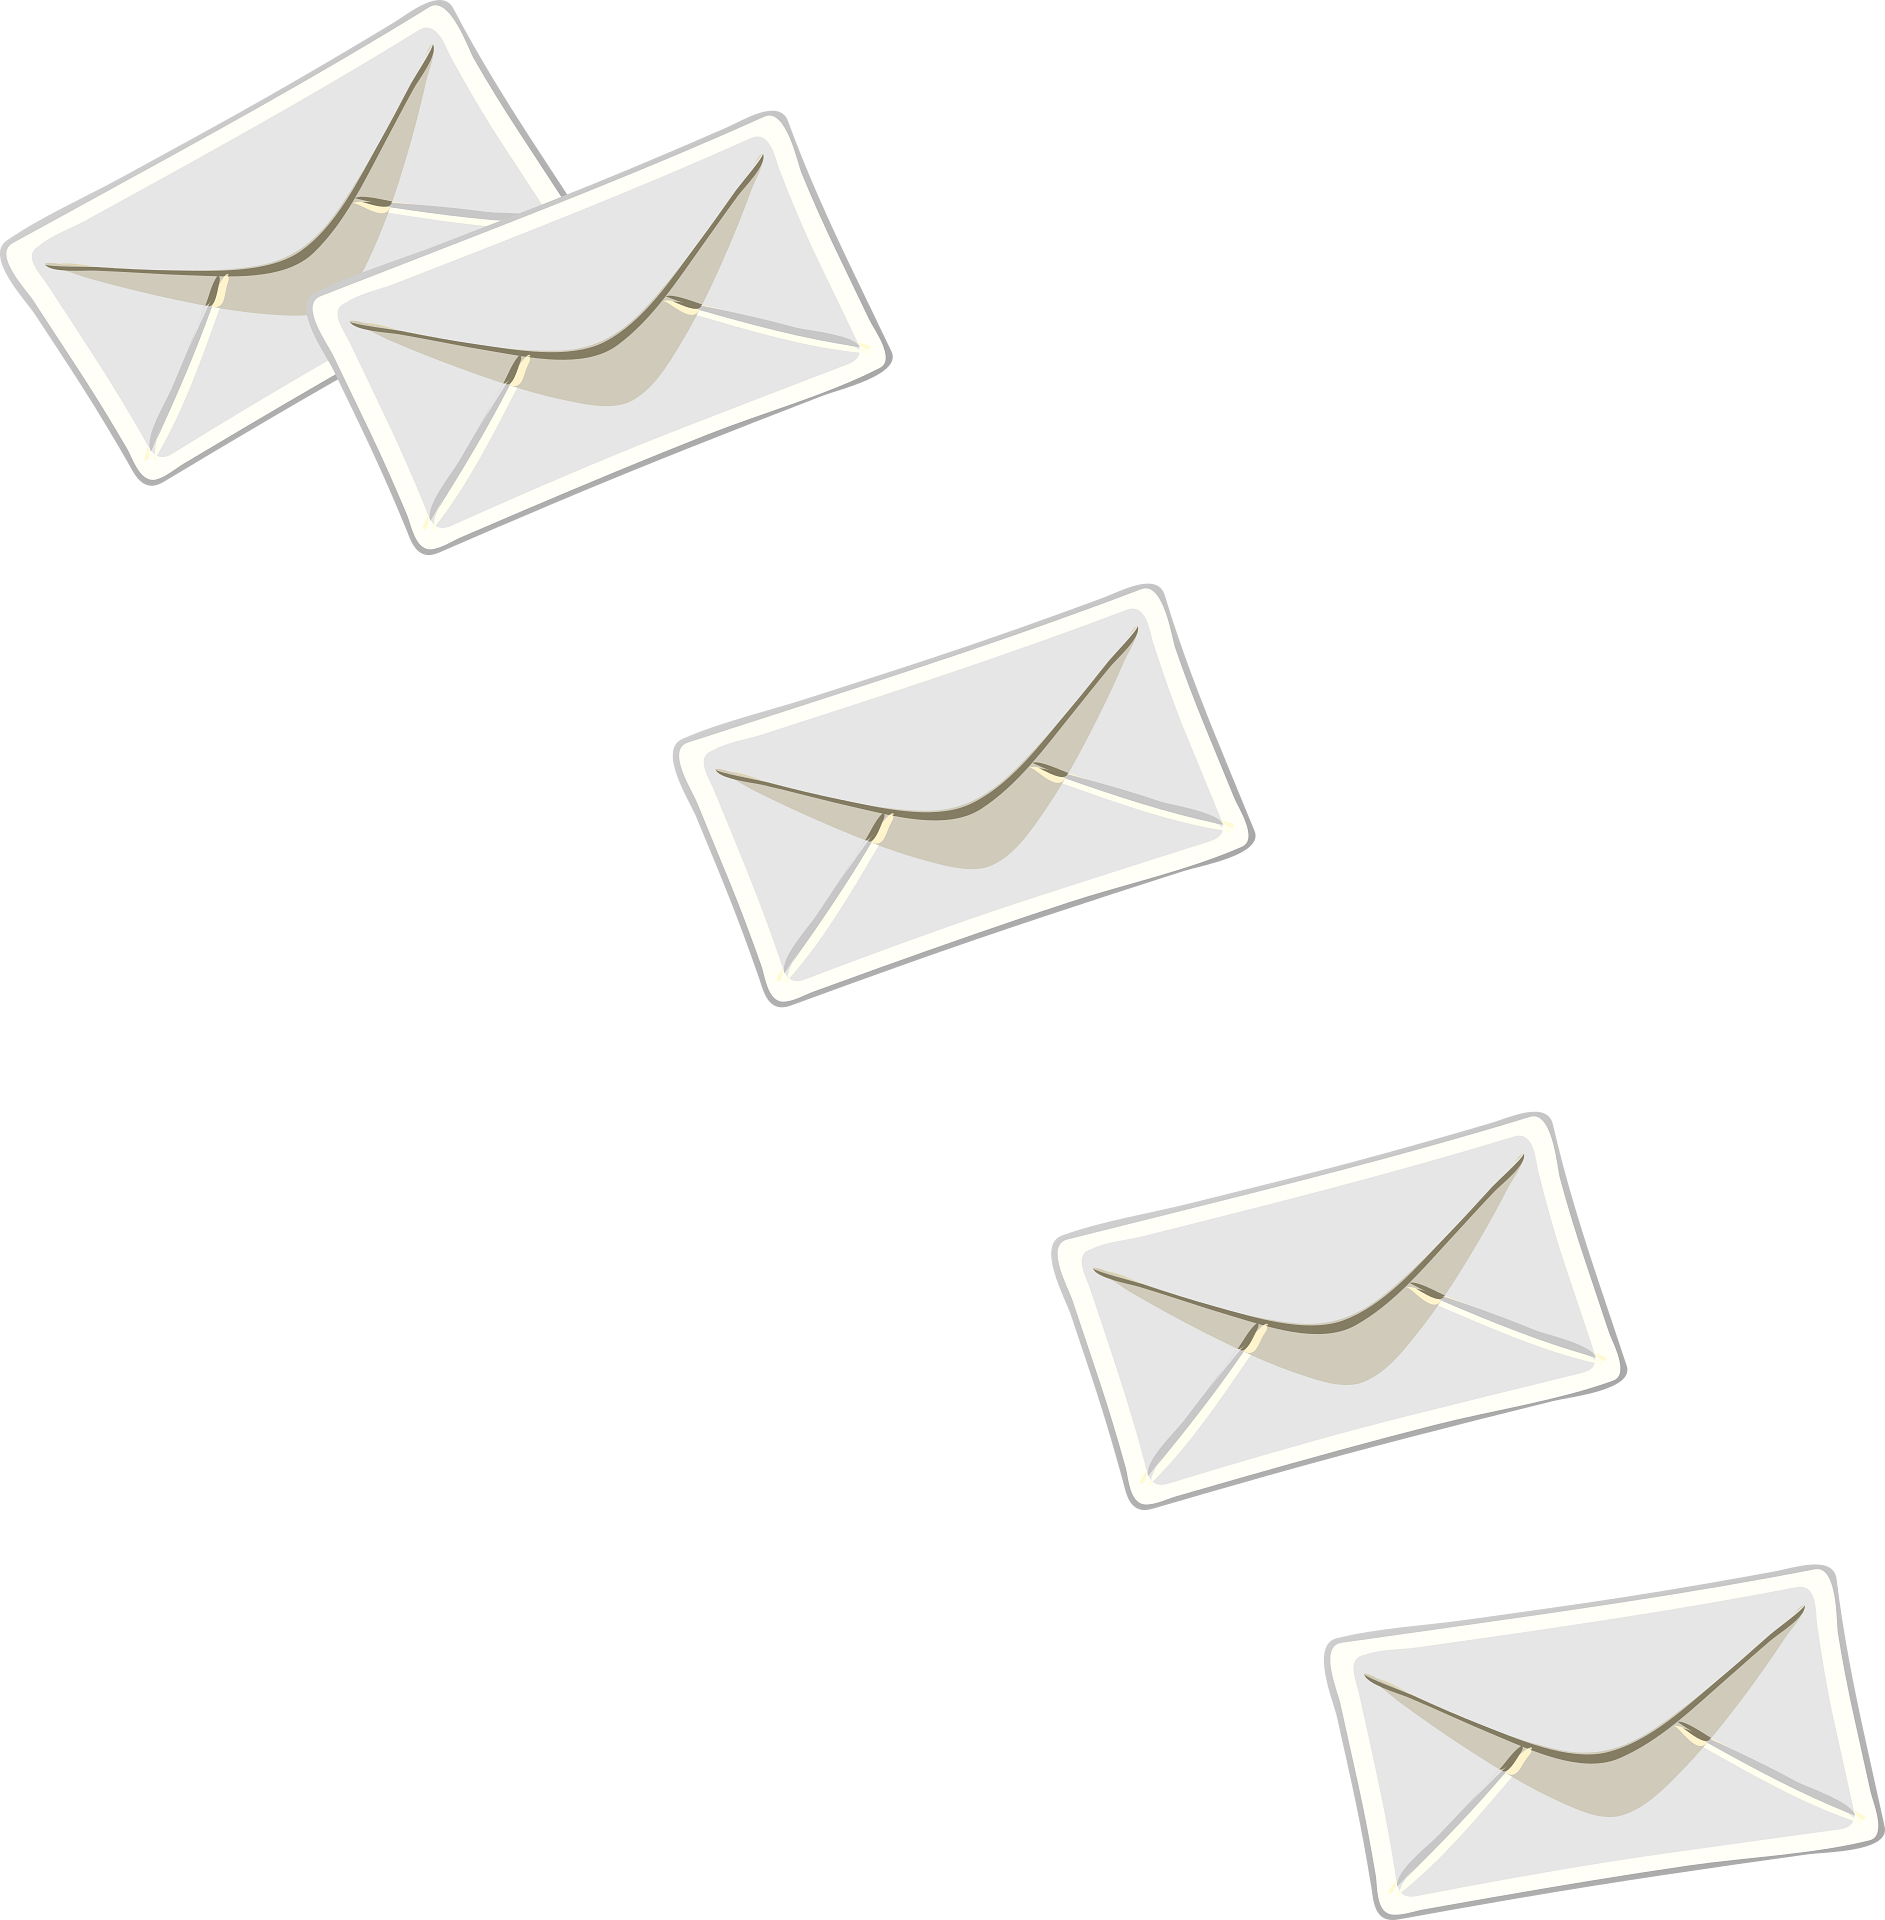
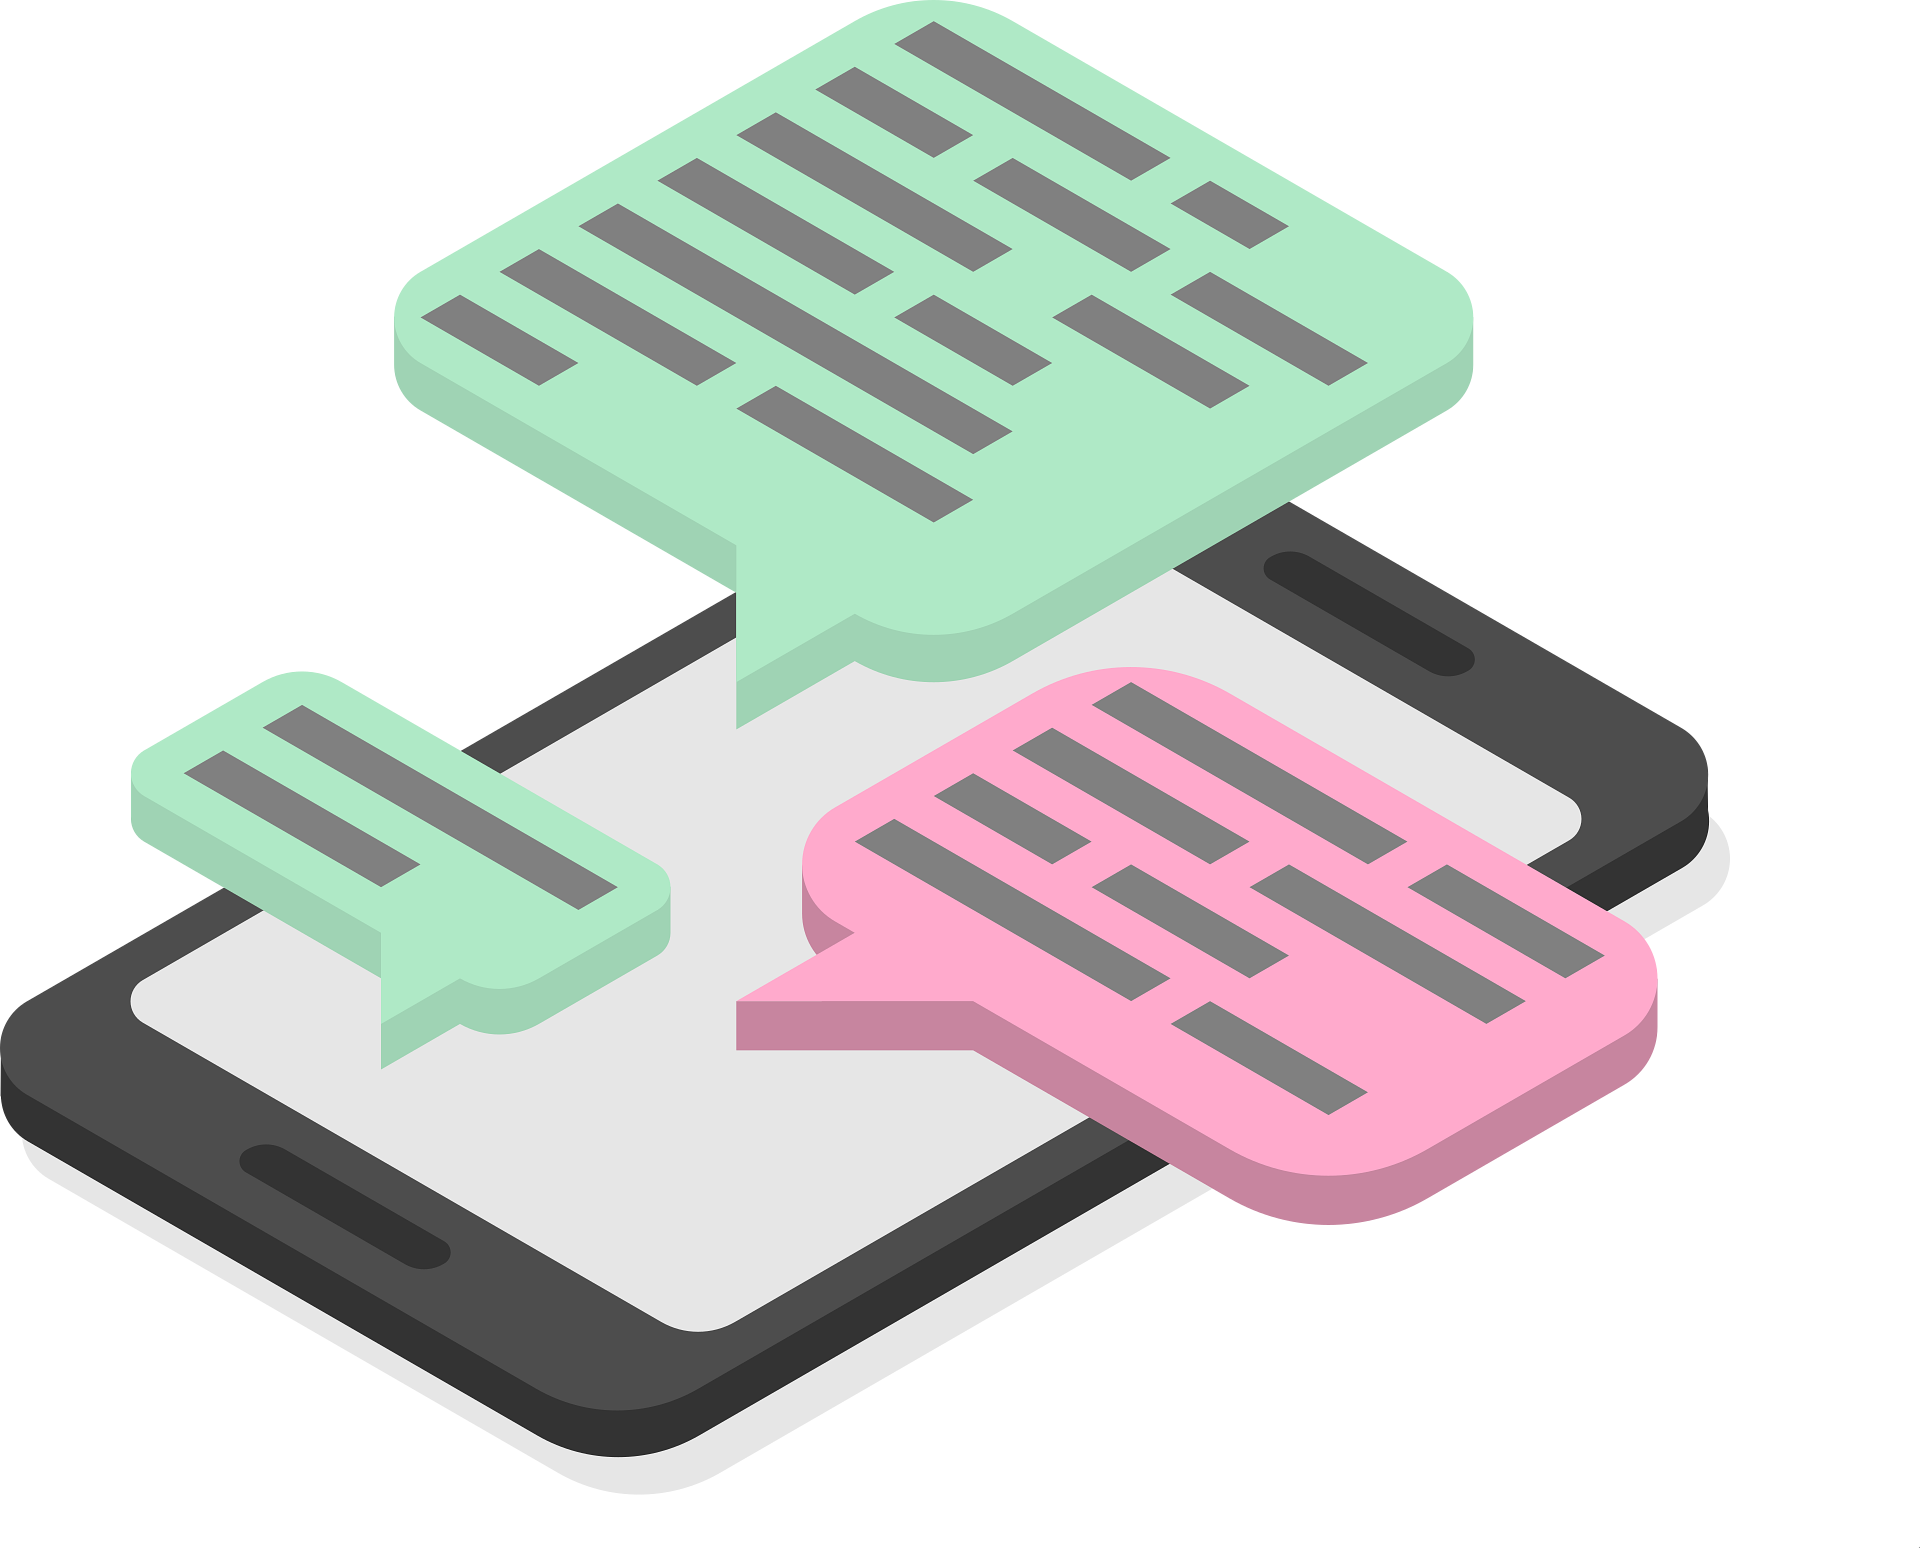
Fixed varying photo heights

diff --git a/rules.html b/rules.html
@@ -52,7 +52,6 @@
                             in play. Doing so immediately forfeits the point.</li>
                     </ul>
                 </div>
-                <img class="basic-img" src="images/rules-images/umpire.png" alt="image of a tennis umpire">
             </section>
 
             <!-- SCORING SYSTEM -->
@@ -74,6 +73,7 @@
                         they win the game; if they lose it, the score returns to deuce.
                     </p>
                 </div>
+                <img class="basic-img" src="images/rules-images/points.png" alt="image of tennis scoreboard">
             </section>
 
             <!-- SERVING -->
@@ -130,6 +130,7 @@
                             href="https://www.beaumontetiquette.com/post/tennis-etiquette-the-unwritten-rules-of-the-court"
                             target="_blank">Gentlemanly conduct in tennis</a></button>
                 </div>
+                <img class="basic-img" src="images/rules-images/gentlemans.png" alt="image of player shaking hands">
             </section>
 
             <!-- DETAILED RULES -->

diff --git a/css/styles.css b/css/styles.css
@@ -110,11 +110,10 @@ nav a {
 
 /* INTRO */
 .intro {
-    margin-top: 20px;
+    margin-top: 50px;
     display: flex;
-    align-items: flex-start;
+    align-items: stretch;
     gap: 60px;
-    align-items: center;
 }
 
 .intro-text {
@@ -217,9 +216,8 @@ nav a {
 /* BASIC SECTION */
 .basic {
     display: flex;
-    align-items: flex-start;
+    align-items: stretch;
     gap: 60px;
-    align-items: center;
     margin-top: 50px;
 }
 
@@ -302,14 +300,18 @@ nav a {
     display: block;
     width: 30%;
     height: auto;
-    max-height: 400px;
-    align-self: center;
+    max-height: 300px;
+    margin-top: 10px;
+    object-fit: cover;
     border-radius: 5px;
     box-shadow: 0 8px 8px rgba(0, 0, 0, 0.2);
 }
 
 .vector-img {
+    display: block;
     width: 30%;
+    margin-top: 10px;
     height: auto;
-    align-self: center;
+    max-height: 300px;
+    object-fit: cover;
 }
